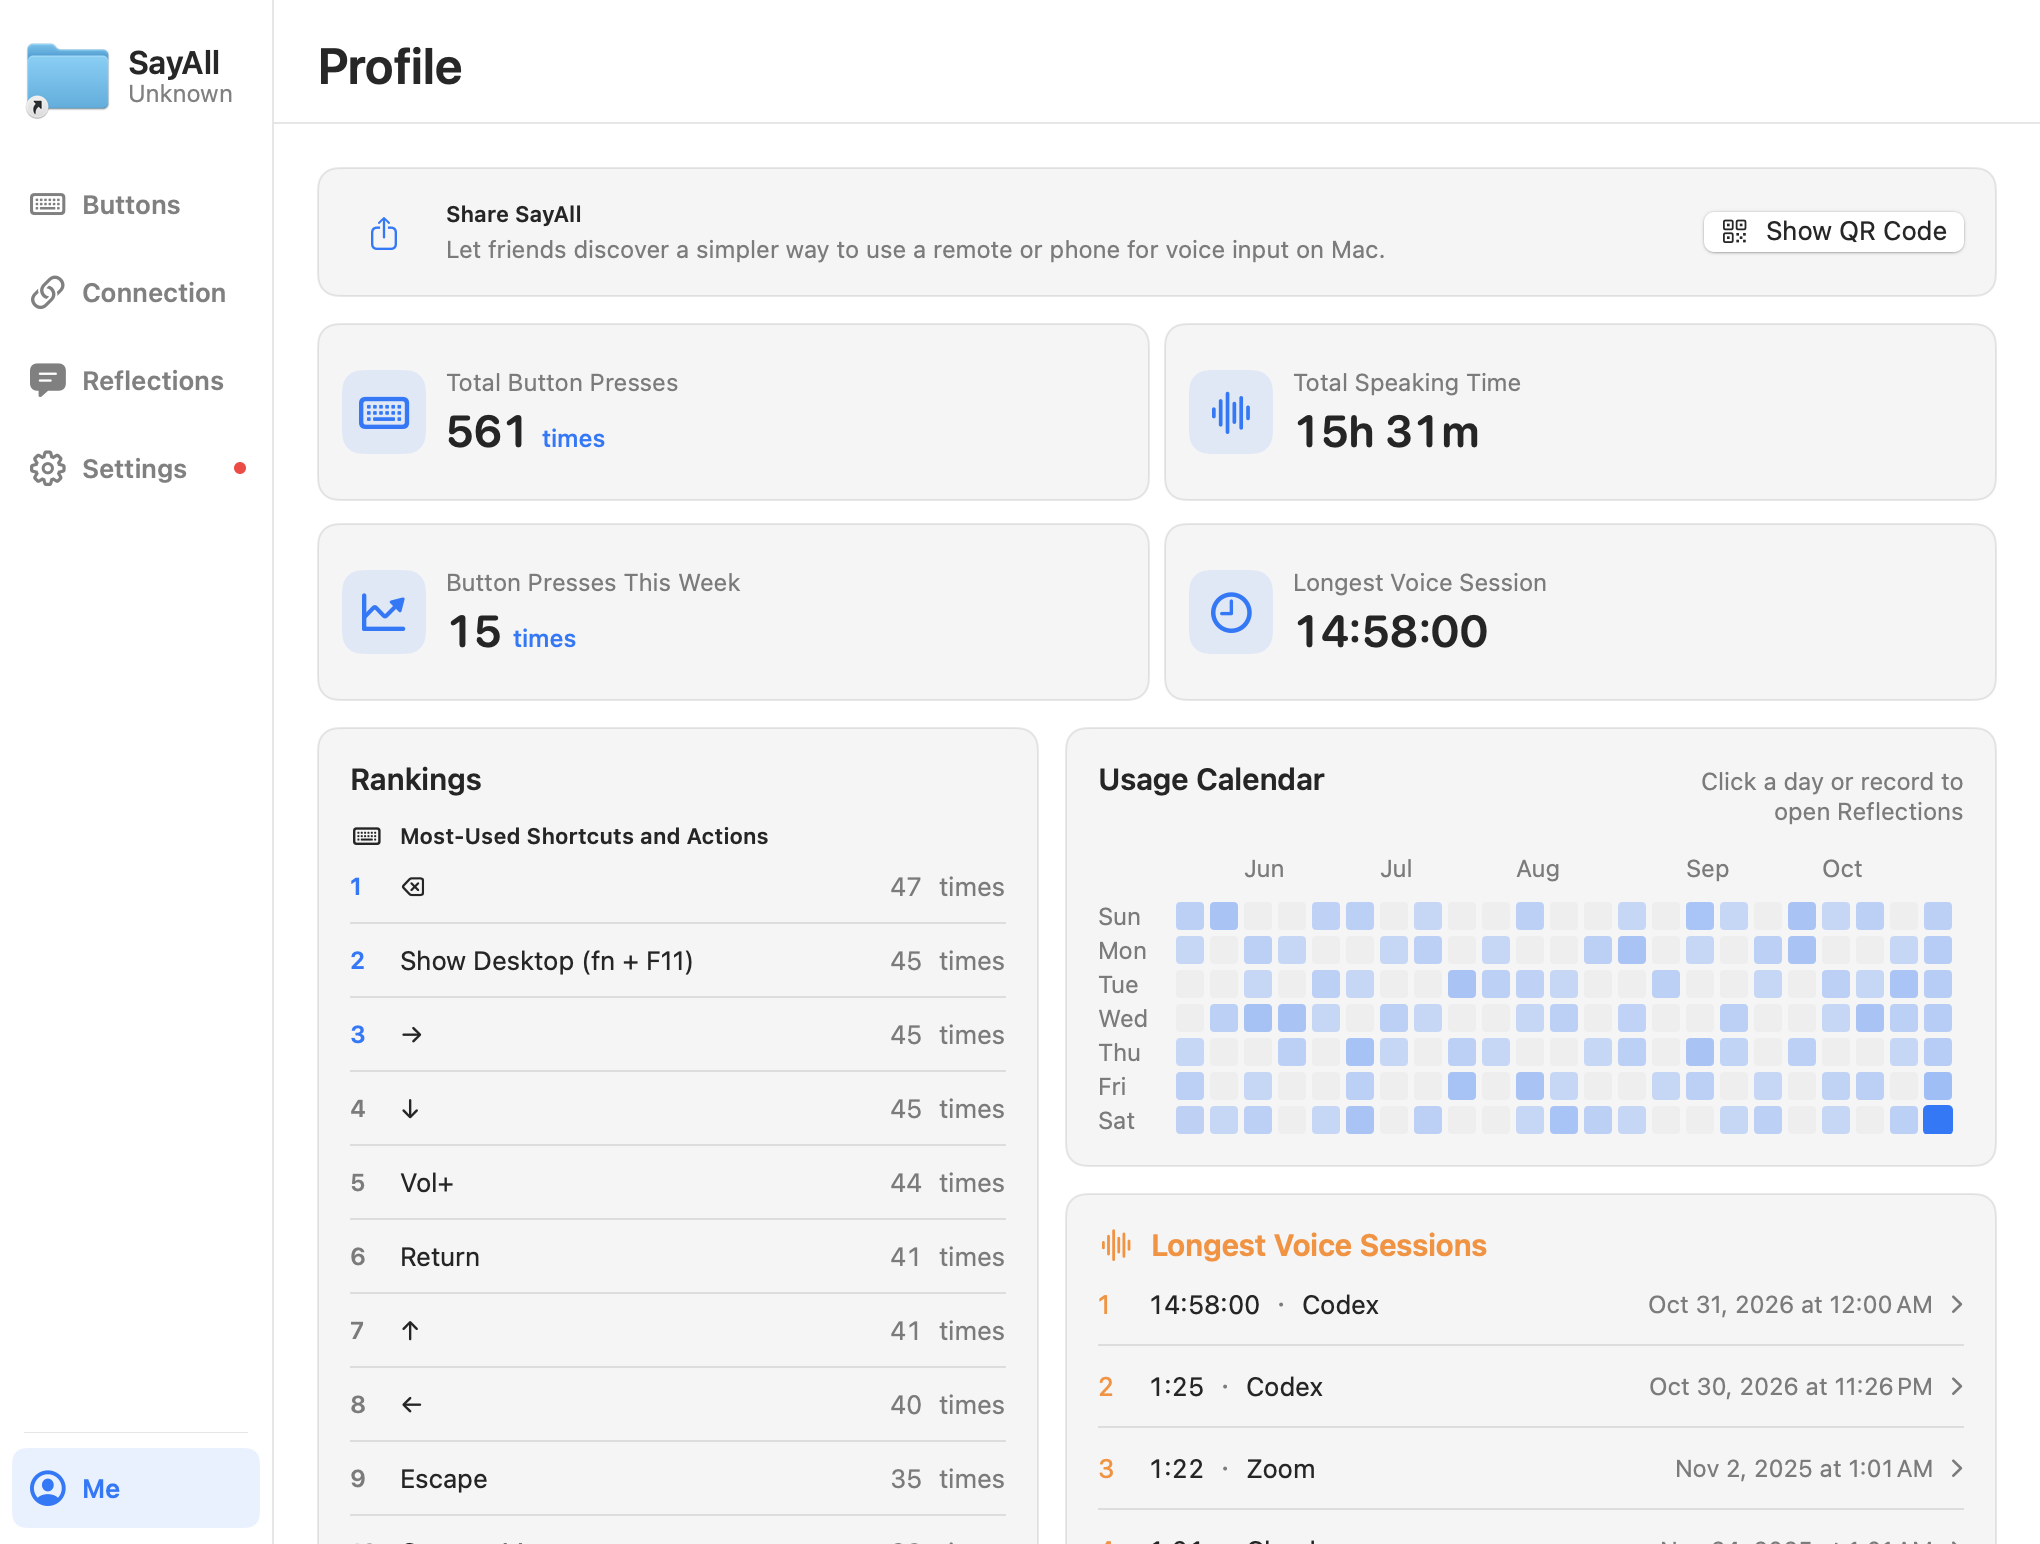
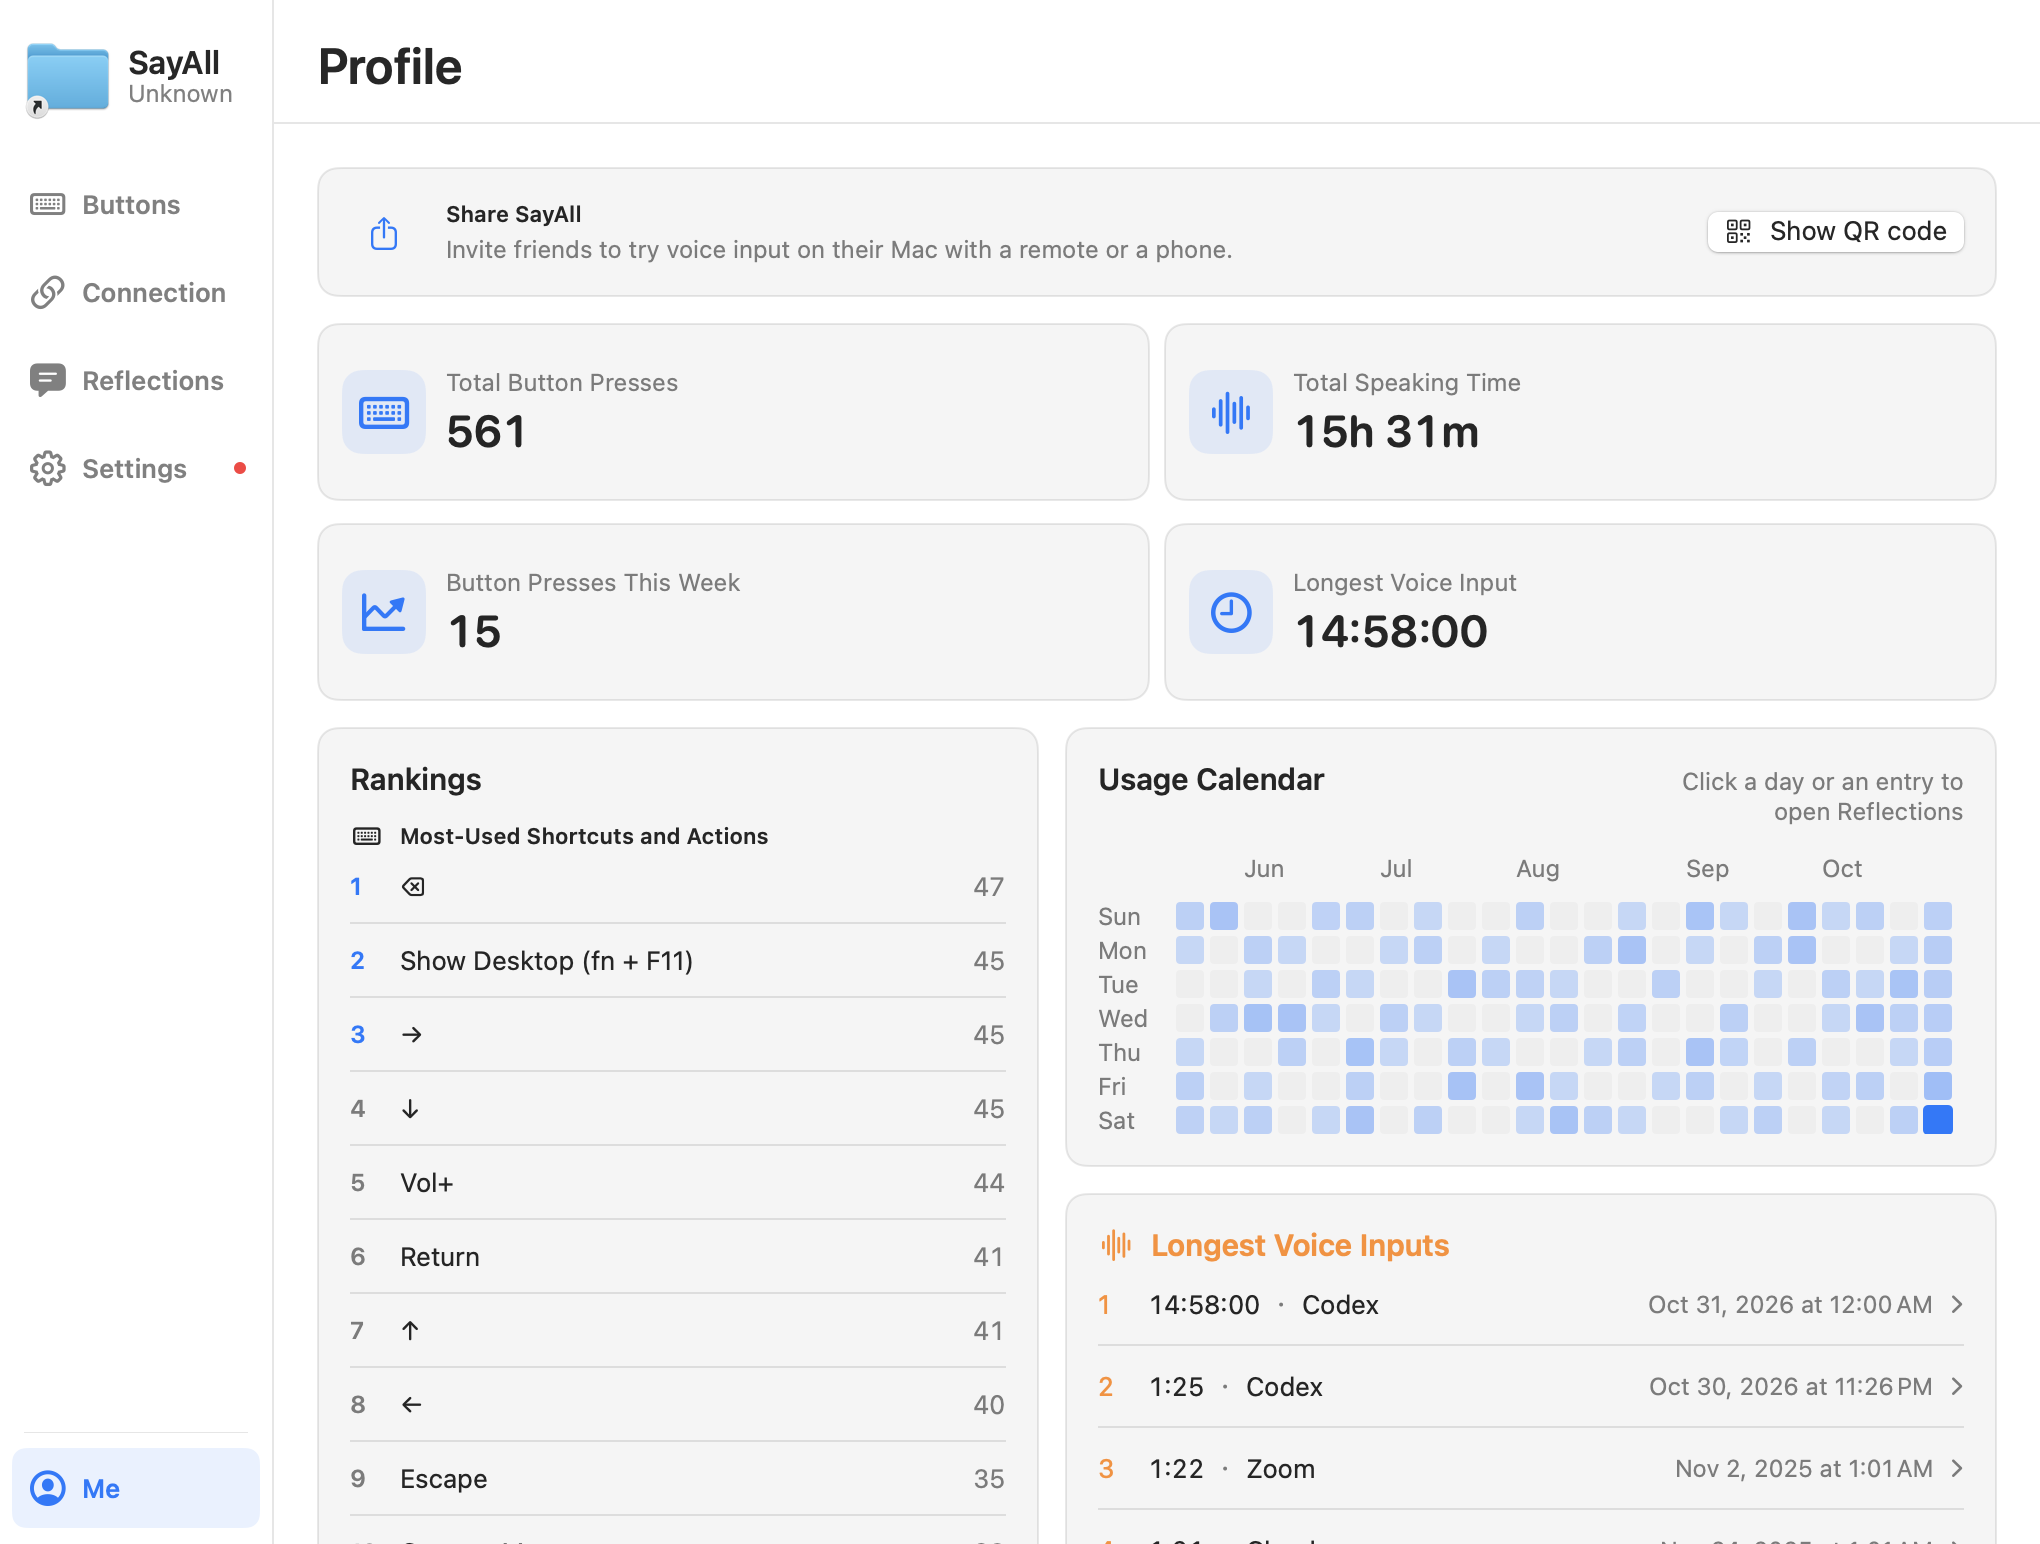
fix(mac): polish profile English copy and drop the count unit
The English profile page read like a translation: counts showed a
"times" counter word, the share blurb said "on Mac" without an article,
and the calendar hint used the verb/noun-ambiguous "record".

- Leave statistics.metric.count_unit empty for English and skip the
  unit in the KPI card and both ranking rows; Chinese keeps "次".
- Rename "Longest Voice Session(s)" to "Longest Voice Input(s)".
- Fix the calendar hint, share description and QR button wording.
- Allow the intentionally empty unit key in the localization test and
  re-render the English evidence screenshot.

diff --git a/Sources/RemoteMic/SettingsView.swift b/Sources/RemoteMic/SettingsView.swift
@@ -3820,7 +3820,7 @@ struct SettingsView: View {
                 systemImage: "keyboard",
                 title: localization.text("statistics.metric.total_button_count"),
                 value: localizedNumber(settings.usageStatistics(for: .total).buttonPressCount),
-                unit: localization.text("statistics.metric.count_unit")
+                unit: countUnit
             ),
             ProfileMetric(
                 id: "total-voice",
@@ -3834,7 +3834,7 @@ struct SettingsView: View {
                 systemImage: "chart.line.uptrend.xyaxis",
                 title: localization.text("statistics.metric.week_button_count"),
                 value: localizedNumber(settings.usageStatistics(for: .thisWeek).buttonPressCount),
-                unit: localization.text("statistics.metric.count_unit")
+                unit: countUnit
             ),
             ProfileMetric(
                 id: "longest-voice",
@@ -3848,6 +3848,13 @@ struct SettingsView: View {
                 unit: nil
             ),
         ]
+    }
+
+    /// Counter word such as “次”. English reads counts without one, so the key may be empty
+    /// and the surrounding rows skip the label entirely.
+    private var countUnit: String? {
+        let unit = localization.text("statistics.metric.count_unit")
+        return unit.isEmpty ? nil : unit
     }
 
     private var statisticsRankingPanel: some View {
@@ -3867,8 +3874,10 @@ struct SettingsView: View {
                         Text(localizedNumber(entry.count))
                             .foregroundStyle(.secondary)
                             .monospacedDigit()
-                        Text(localization.text("statistics.metric.count_unit"))
-                            .foregroundStyle(.secondary)
+                        if let countUnit {
+                            Text(countUnit)
+                                .foregroundStyle(.secondary)
+                        }
                     }
                 }
 
@@ -3883,8 +3892,10 @@ struct SettingsView: View {
                         Text(localizedNumber(entry.count))
                             .foregroundStyle(.secondary)
                             .monospacedDigit()
-                        Text(localization.text("statistics.metric.count_unit"))
-                            .foregroundStyle(.secondary)
+                        if let countUnit {
+                            Text(countUnit)
+                                .foregroundStyle(.secondary)
+                        }
                     }
                 }
 
@@ -5847,7 +5858,7 @@ private struct ProfileMetricCard: View {
                         .lineLimit(1)
                         .minimumScaleFactor(0.7)
                         .allowsTightening(true)
-                    if let unit {
+                    if let unit, !unit.isEmpty {
                         Text(unit)
                             .font(.system(size: 12, weight: .medium))
                             .foregroundStyle(tint)

diff --git a/Tests/RemoteMicTests/LocalizationTests.swift b/Tests/RemoteMicTests/LocalizationTests.swift
@@ -155,10 +155,14 @@ struct LocalizationTests {
             english["connection.web.help_short"]?.contains("WeChat") == true
         )
 
+        // Counter words such as “次” do not exist in English, so this unit is intentionally empty.
+        let intentionallyEmptyKeys: Set<String> = ["statistics.metric.count_unit"]
         #expect(!english.isEmpty)
         for (key, value) in english {
             #expect(key.range(of: #"^[a-z0-9]+(?:[._][a-z0-9]+)*$"#, options: .regularExpression) != nil)
-            #expect(!value.isEmpty)
+            if !intentionallyEmptyKeys.contains(key) {
+                #expect(!value.isEmpty)
+            }
             #expect(value != key)
         }
 
@@ -192,7 +196,9 @@ struct LocalizationTests {
             for key in english.keys {
                 let englishValue = try #require(english[key])
                 let localizedValue = try #require(localized[key])
-                #expect(!localizedValue.isEmpty)
+                if !intentionallyEmptyKeys.contains(key) {
+                    #expect(!localizedValue.isEmpty)
+                }
                 #expect(localizedValue != key)
                 #expect(formatPlaceholders(in: localizedValue) == formatPlaceholders(in: englishValue))
                 #expect(!containsRestrictedUserTerm(localizedValue))

diff --git a/design-qa.md b/design-qa.md
@@ -233,8 +233,9 @@ final result: passed
 - 改动：个人中心页头只保留“个人中心 / Profile”标题，移除右上角锁图标与“数据仅存本机 / Data stays on this Mac”说明，并删除对应本地化键；累计语音时长改为紧凑写法（`15小时31分` / `15h 31m`），数值行增加收紧与缩放兜底，避免小时级数据被省略号截断。
[5 lines of base64/hex data omitted]
-- 验证边界：四张截图均来自生产 `SettingsView` 的隐藏离屏入口，`1020 × 772` 为当前生产最小窗口；小时级时长来自离屏样本数据，不替代真实使用数月后的极端数据、真实权限与实体设备验收。
+- 英文文案同批修整：计数不再带 `times` 单位（`statistics.metric.count_unit` 在英文下为空，行内与卡片都不渲染单位），`Longest Voice Session(s)` 改为 `Longest Voice Input(s)`，日历提示改为 `Click a day or an entry to open Reflections`，分享说明改为 `Invite friends to try voice input on their Mac with a remote or a phone.`，按钮改为 `Show QR code`；中文文案不变，仍显示“次”。
+- 验证边界：四张截图均来自生产 `SettingsView` 的隐藏离屏入口，`1020 × 772` 为当前生产最小窗口；小时级时长来自离屏样本数据，不替代真实使用数月后的极端数据、真实权限与实体设备验收。英文另在 `800 × 650` 复验日历提示完整换行、计数无单位、卡片不裁切。
 
 final result: passed
